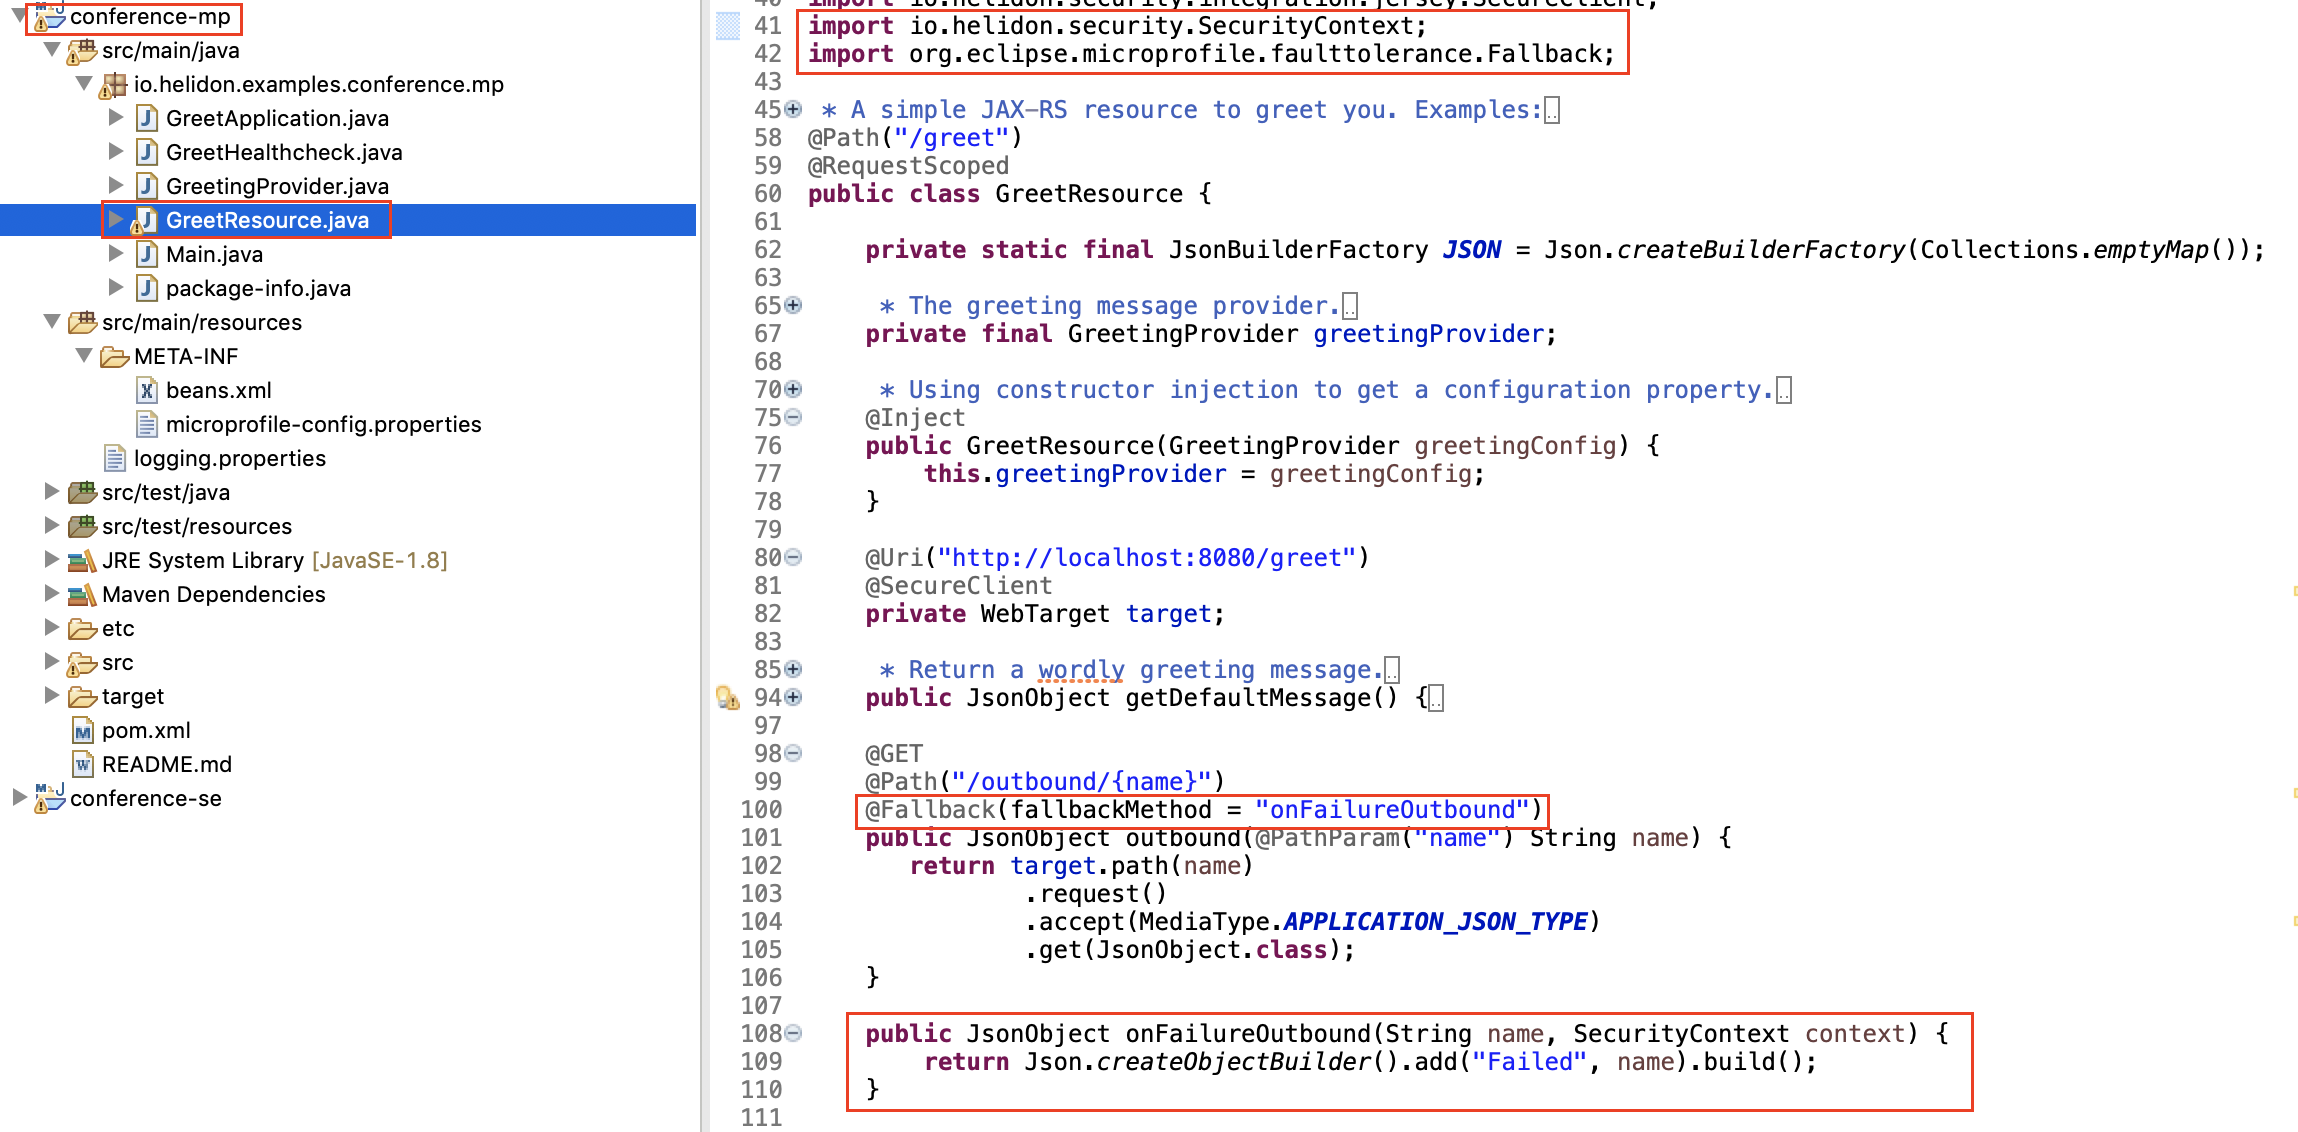
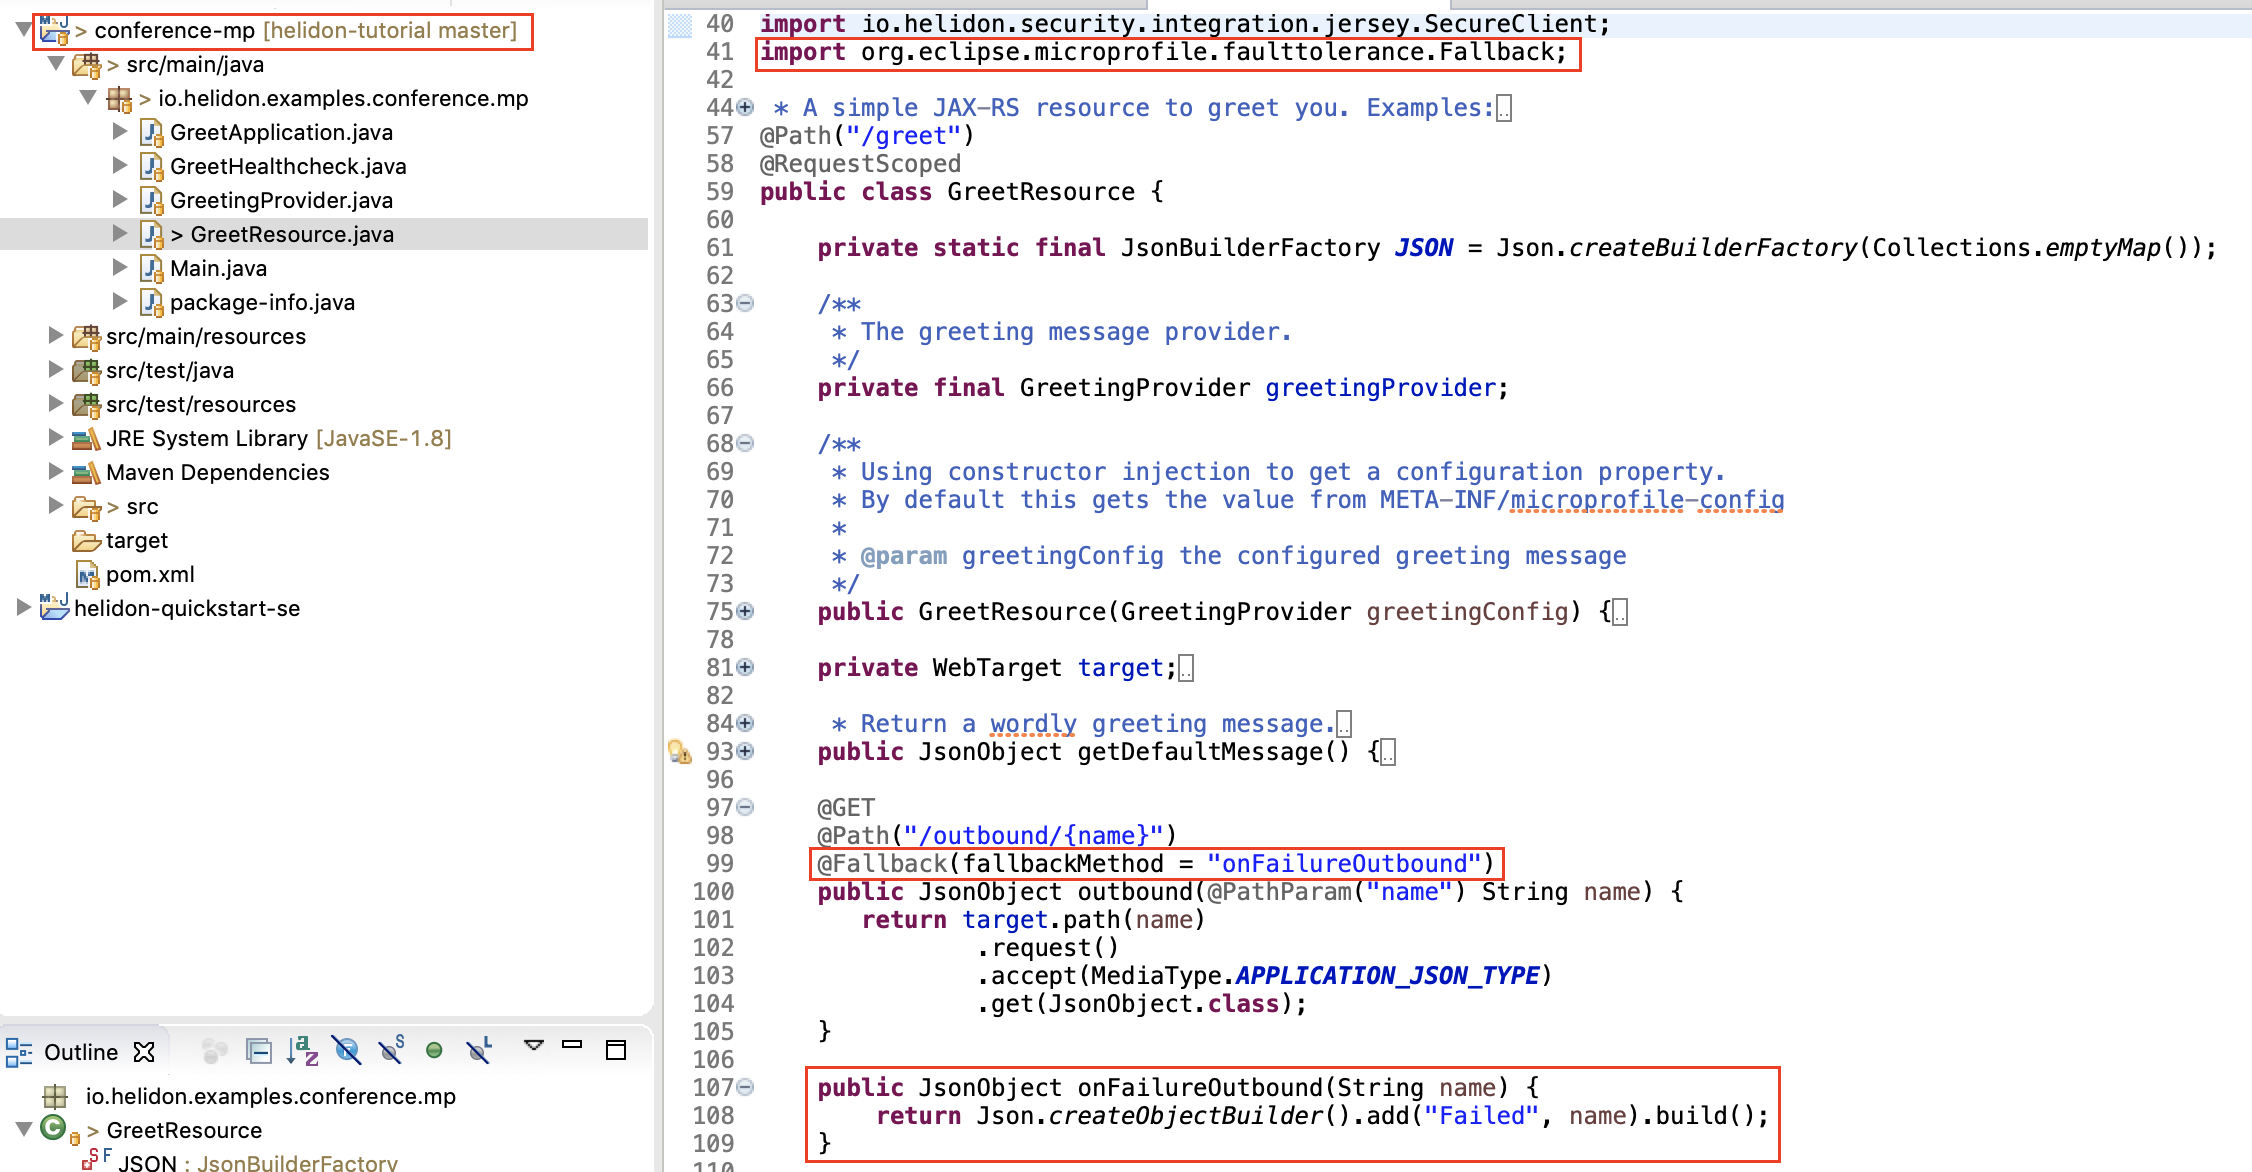
fault tolerance fix

Changed region(s): [[0.0, 0.0, 1.0, 1.0], [0.0, 0.8657, 0.2176, 1.0], [0.2487, 0.8657, 0.2798, 0.8966]]

diff --git a/conference-mp/src/main/java/io/helidon/examples/conference/mp/GreetResource.java b/conference-mp/src/main/java/io/helidon/examples/conference/mp/GreetResource.java
@@ -38,7 +38,6 @@ import org.glassfish.jersey.server.Uri;
 import javax.ws.rs.client.WebTarget;
 
 import io.helidon.security.integration.jersey.SecureClient;
-import io.helidon.security.SecurityContext;
 import org.eclipse.microprofile.faulttolerance.Fallback;
 
 /**

diff --git a/README.md b/README.md
@@ -722,7 +722,7 @@ Add annotation to the method `outbound` in `GreetResource.java` in the MP projec
 
 And create the fallback method:
 ```java
-public JsonObject onFailureOutbound(String name, SecurityContext context) {
+public JsonObject onFailureOutbound(String name) {
     return Json.createObjectBuilder().add("Failed", name).build();
 }
 ```
